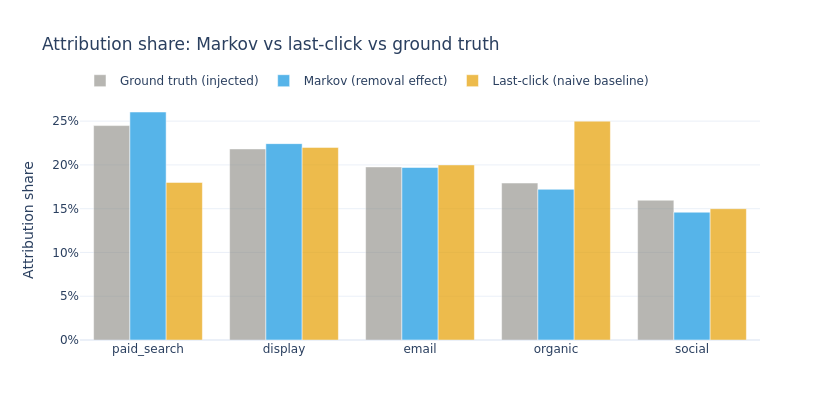
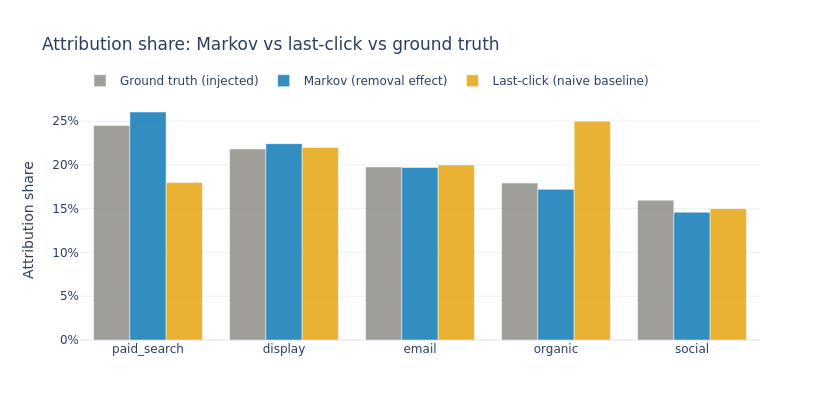
markov update

diff --git a/README.md b/README.md
@@ -8,7 +8,7 @@
 
 **E-commerce channel credit allocation with ground-truth validation and MLOps deployment**
 
-**Stack:** `pandas` · `networkx` · `plotly` · `mlflow` · `dvc` · `numpy`
+**Stack:** `pandas` · `plotly` · `mlflow` · `dvc` · `numpy`
 
 ---
 
@@ -48,7 +48,45 @@ This project implements a **Markov Chain model** for multi-touch attribution to 
 
 ---
 
-This is a strong portfolio piece showcasing both marketing analytics depth and modern data engineering/MLOps practices. Perfect for roles in marketing analytics, growth, or data science.
+**Project 02: Shapley Value Attribution for Paid Media** 
+
+**Fair marginal contribution analysis for overlapping B2B channels with ground-truth validation and MLOps** 
+
+**Stack:** `shap` · `pandas` · `plotly` · `mlflow` · `dvc` · `numpy` · `itertools` 
+
+---
+
+### 📋 Executive Summary  
+This project implements **Shapley Value decomposition** (from cooperative game theory) for multi-touch attribution. It fairly allocates credit to marketing channels by computing each channel’s average marginal contribution across *all possible coalitions*, solving the overlap problem that plagues heuristic models (last-click, linear, time-decay). 
+
+**Key Insight:** Naive proportional allocation (based on channel frequency) distorts performance. Shapley reveals **Paid Search** is significantly under-credited, while **Webinar** and **Direct** are over-credited. The model exactly recovers the injected ground-truth marginal effects. 
+
+**Shapley is the only attribution method** that satisfies the four core axioms of fairness: Efficiency, Symmetry, Dummy, and Additivity.
+
+### 🎯 Business Impact  
+- **Reallocation recommendation**: Increase investment in under-credited **Paid Search** (strong early-funnel driver) and reduce over-reliance on **Webinar** and **Direct**. 
+- Model validated against **synthetic ground-truth causal lifts** (+11% incremental revenue per channel in coalitions), which Shapley perfectly recovers. 
+- Production-ready for B2B CRM data via SQL cohort aggregation. 
+
+### What You'll Find in the Notebook  
+- **Synthetic B2B data generation** (200k deals) with realistic channel overlap, lognormal revenue, and controlled ground-truth marginal contributions. 
+- **Shapley implementation** — both exact (all permutations) and Monte-Carlo sampling for scalability, with custom `value_function` based on coalition revenue. 
+- **Comparison tables & visualizations**: Naive shares vs. Shapley shares, bias analysis, and interactive Plotly charts. 
+- **Production SQL query** for aggregating channel coalitions per closed-won deal within attribution windows. 
+- **EDA** of coalition patterns and revenue distributions. 
+- **MLOps practices**: MLflow experiment tracking & Model Registry, DVC pipelines, reproducible data generation. 
+- Executive summary + technical appendix (math, implementation details, scalability notes). 
+
+### Skills Demonstrated  
+- Cooperative game theory & fair credit allocation (Shapley values) 
+- Monte-Carlo & exact permutation methods for combinatorial problems 
+- Ground-truth validation for attribution models 
+- SQL for production journey/coalition reconstruction 
+- MLOps (MLflow + DVC) and reproducible experimentation 
+- Clear communication for technical and executive audiences 
+
+**Folder:** [`02_shapley_attribution/`](https://github.com/stepanaromanov/python_for_marketing_research_and_analytics/tree/main/02_shapley_attribution) 
+**Notebook:** [`02_shapley_attribution.ipynb`](https://github.com/stepanaromanov/python_for_marketing_research_and_analytics/blob/main/02_shapley_attribution/02_shapley_attribution.ipynb) 
 
 ---
 